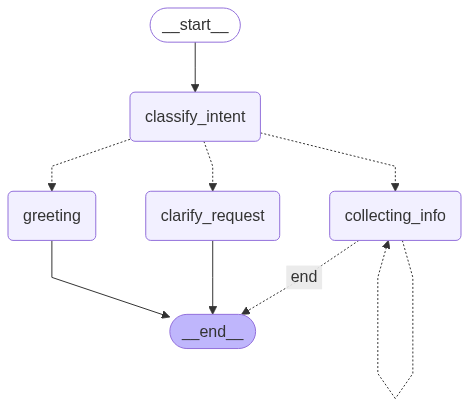
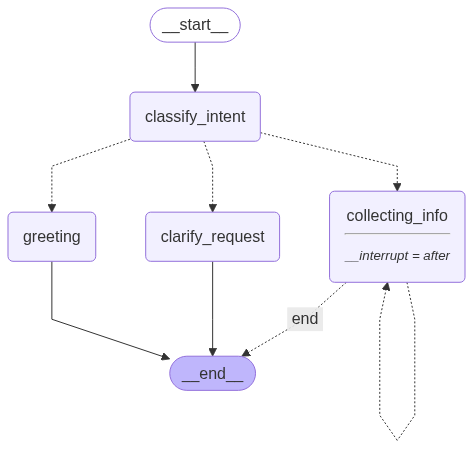
feat: add human-in-loop for clarify

diff --git a/src/meetingmuse/nodes/collecting_info_node.py b/src/meetingmuse/nodes/collecting_info_node.py
@@ -5,6 +5,7 @@ from langchain_core.prompts import ChatPromptTemplate
 from langchain_core.output_parsers import PydanticOutputParser
 
 from meetingmuse.prompts.schedule_meeting_prompt import SCHEDULE_MEETING_PROMPT
+from meetingmuse.prompts.missing_fields_prompt import MISSING_FIELDS_PROMPT
 from meetingmuse.nodes.base_node import BaseNode
 from meetingmuse.models.node import NodeName
 from meetingmuse.models.meeting import MeetingFindings
@@ -22,29 +23,39 @@ class CollectingInfoNode(BaseNode):
         self.prompt = ChatPromptTemplate.from_messages([
             ("system", SCHEDULE_MEETING_PROMPT),
         ])
+        self.missing_fields_prompt = ChatPromptTemplate.from_messages([
+            ("system", MISSING_FIELDS_PROMPT),
+        ])
         self.chain = self.prompt | self.model.chat_model | self.parser
+        self.missing_fields_chain = self.missing_fields_prompt | self.model.chat_model
         self.logger = logger
 
     def is_meeting_details_complete(self, meeting_details: MeetingFindings) -> bool:
-        # check if title and date_time are present (minimum required)
+        # check if all required fields are present (title, date_time, participants, duration)
         return all([
             meeting_details.title is not None,
-            meeting_details.date_time is not None
+            meeting_details.date_time is not None,
+            meeting_details.participants is not None,
+            meeting_details.duration is not None
         ])
 
     def get_next_node_name(self, state: MeetingMuseBotState) -> NodeName:
+        self.logger.info(f"Getting next node name: {state.meeting_details}")
         if state.meeting_details and self.is_meeting_details_complete(state.meeting_details):
             return NodeName.END
         return NodeName.COLLECTING_INFO
     
-    def get_missing_fields(self, meeting_details: MeetingFindings) -> list[str]:
+    def get_missing_required_fields(self, meeting_details: MeetingFindings) -> list[str]:
+        """Get missing required fields (title, date_time, participants, duration)"""
         missing = []
         if not meeting_details.title:
             missing.append("title")
         if not meeting_details.date_time:
-            missing.append("time")
+            missing.append("date_time")
         if not meeting_details.participants:
             missing.append("participants")
+        if not meeting_details.duration:
+            missing.append("duration")
         return missing
 
 
@@ -59,32 +70,55 @@ class CollectingInfoNode(BaseNode):
         if not last_human_message:
             return state
         
-        meeting_details = state.meeting_details
-        current_details = meeting_details.model_dump() if meeting_details else {}
-        missing_fields = self.get_missing_fields(meeting_details)
+        meeting_details = state.meeting_details or MeetingFindings()
+        current_details = meeting_details.model_dump()
+        missing_required = self.get_missing_required_fields(meeting_details)
 
         if self.is_meeting_details_complete(meeting_details):
             response = f"Perfect! I'll schedule your meeting '{meeting_details.title}' " \
-                      f"for {meeting_details.date_time}"
-            if meeting_details.participants:
-                response += f" with {', '.join(meeting_details.participants)}"            
+                      f"for {meeting_details.date_time} with {', '.join(meeting_details.participants)} " \
+                      f"for {meeting_details.duration}"
+            if meeting_details.location:
+                response += f" at {meeting_details.location}"
+            response += "."
             state.messages.append(AIMessage(content=response))
             return state
         
 
-        updated_meeting_details = self.chain.invoke({
-            "user_message": last_human_message.content,
-            "current_details": current_details,
-            "missing_fields": ", ".join(missing_fields) if missing_fields else "none",
-            "format_instructions": self.parser.get_format_instructions()
-        })        
+        try:
+            updated_meeting_details = self.chain.invoke({
+                "user_message": last_human_message.content,
+                "current_details": current_details,
+                "missing_fields": ", ".join(missing_required) if missing_required else "none",
+                "format_instructions": self.parser.get_format_instructions()
+            })
+        except Exception as e:
+            self.logger.error(f"Parsing error: {e}")
+            # Fallback: keep existing details
+            updated_meeting_details = meeting_details      
         
-        # Update the state with the parsed meeting details
-        state.meeting_details = updated_meeting_details
-        self.logger.info(f"Updated meeting details: {updated_meeting_details}")
+        # Update only the missing fields in the state with the new meeting details, do not overwrite existing details
+        for key, value in updated_meeting_details.model_dump().items():
+            if key in missing_required:
+                setattr(state.meeting_details, key, value)
         
-        # Generate a conversational response
-        response = "I've updated your meeting details. Let me know if you need any changes!"
+        self.logger.info(f"Updated meeting details: {state.meeting_details}")
+        
+        # Generate contextual response based on missing required fields
+        updated_missing_required = self.get_missing_required_fields(state.meeting_details)
+        
+        if updated_missing_required:
+            try:
+                response = self.missing_fields_chain.invoke({
+                    "current_details": state.meeting_details.model_dump(),
+                    "missing_required": updated_missing_required
+                }).content
+            except Exception as e:
+                self.logger.error(f"Missing fields prompt error: {e}")
+                response = "I need some more information to schedule your meeting. Could you provide the missing details?"
+        else:
+            response = "Great! I have all the information I need."
+        
         state.messages.append(AIMessage(content=response))
         return state
     

diff --git a/tests/scripts/run_chatbot.py b/tests/scripts/run_chatbot.py
@@ -1,0 +1,72 @@
+from langgraph.graph import StateGraph
+from langchain_core.messages import HumanMessage
+from meetingmuse.nodes import clarify_request_node, collecting_info_node, classify_intent_node, greeting_node
+from meetingmuse.models.state import MeetingMuseBotState
+from meetingmuse.graph import GraphBuilder
+from meetingmuse.services.routing_service import ConversationRouter
+from meetingmuse.utils.logger import Logger
+from meetingmuse.llm_models.hugging_face import HuggingFaceModel
+from meetingmuse.services.intent_classifier import IntentClassifier
+from meetingmuse.nodes.classify_intent_node import ClassifyIntentNode
+from meetingmuse.nodes.greeting_node import GreetingNode
+from meetingmuse.nodes.collecting_info_node import CollectingInfoNode
+from meetingmuse.nodes.clarify_request_node import ClarifyRequestNode
+
+logger = Logger()
+conversation_router = ConversationRouter(logger)
+model = HuggingFaceModel("meta-llama/Meta-Llama-3-8B-Instruct")
+intent_classifier = IntentClassifier(model)
+classify_intent_node = ClassifyIntentNode(intent_classifier)
+greeting_node = GreetingNode(model)
+collecting_info_node = CollectingInfoNode(model, logger)
+clarify_request_node = ClarifyRequestNode(model)
+
+class ChatBot:
+    def __init__(self, graph):
+        self.graph = graph
+        self.thread_id = "conversation_1"
+        self.config = {"configurable": {"thread_id": self.thread_id}}
+    
+    def process_input(self, user_input: str):
+        # Always add the user message and process
+        input_data = {"messages": [HumanMessage(content=user_input)]}
+        
+        for events in self.graph.stream(
+            input_data, 
+            config=self.config,
+            stream_mode="values"
+        ):
+            messages = events["messages"]
+            message = messages[-1]
+            if message and message.type == "ai" and message.content:
+                print("Assistant:", message.content)
+        
+        # Check if we're interrupted and waiting for more input
+        current_state = self.graph.get_state(self.config)
+        if current_state and current_state.next:
+            print(f"[System: Waiting for your input, will resume at {current_state.next}]")
+
+
+
+if __name__ == "__main__":
+    graph_builder = GraphBuilder(
+        state=MeetingMuseBotState,
+        greeting_node=greeting_node,
+        clarify_request_node=clarify_request_node,
+        collecting_info_node=collecting_info_node,
+        conversation_router=conversation_router,
+        classify_intent_node=classify_intent_node,
+    )
+    graph = graph_builder.build()
+    chatbot = ChatBot(graph)
+    
+    while True:
+        try:
+            user_input = input("User: ")
+            if user_input.lower() in ["quit", "exit", "q"]:
+                print("Goodbye!")
+                break
+            chatbot.process_input(user_input)
+        except Exception as e:
+            print(e)
+            break

diff --git a/src/meetingmuse/prompts/missing_fields_prompt.py b/src/meetingmuse/prompts/missing_fields_prompt.py
@@ -1,0 +1,50 @@
+MISSING_FIELDS_PROMPT = """
+You are CalendarBot, helping to schedule a meeting. Generate a friendly, natural response asking the user for missing meeting information.
+
+CURRENT MEETING DETAILS: {current_details}
+MISSING REQUIRED FIELDS: {missing_required}
+
+Your task:
+1. Generate a conversational response that acknowledges what information you have
+2. Ask for the missing required fields in a natural way
+3. Keep the tone helpful and conversational
+
+REQUIRED FIELDS (must ask for these):
+- title: Meeting purpose/subject
+- date_time: Date and time for the meeting
+- participants: Who should attend the meeting
+- duration: How long the meeting should be
+
+GUIDELINES:
+- Be conversational and friendly
+- Acknowledge any details already provided
+- Focus only on required fields (title, date_time, participants, duration) 
+- Don't overwhelm with too many questions at once
+- Use natural language, not technical field names
+- Keep response concise but helpful
+
+EXAMPLES:
+
+Input: current_details={{"title": "team standup"}}, missing_required=["date_time", "participants", "duration"]
+Output: Great! I've got that you want to schedule a team standup. When would you like to have it, who should attend, and how long should it be?
+
+Input: current_details={{}}, missing_required=["title", "date_time", "participants", "duration"]
+Output: I'd be happy to help you schedule a meeting! What would you like the meeting to be about, when would you like to have it, who should attend, and how long should it be?
+
+Input: current_details={{"title": "client review", "date_time": "Friday at 3pm"}}, missing_required=["participants", "duration"]
+Output: Perfect! I've got your client review meeting scheduled for Friday at 3pm. Who should attend and how long should it be?
+
+Input: current_details={{"title": "marketing sync", "participants": ["John", "Sarah"], "duration": "30 minutes"}}, missing_required=["date_time"]
+Output: Got it! You want to schedule a 30-minute marketing sync with John and Sarah. When would work best for everyone?
+
+Input: current_details={{"date_time": "tomorrow at 2pm", "duration": "1 hour"}}, missing_required=["title", "participants"]
+Output: I see you want to meet tomorrow at 2pm for 1 hour. What's the meeting about and who should attend?
+
+Input: current_details={{"title": "project review", "date_time": "Monday at 10am", "participants": ["team leads"], "duration": "45 minutes"}}, missing_required=[]
+Output: Perfect! I have all the details for your 45-minute project review with the team leads on Monday at 10am.
+
+IMPORTANT: 
+- Return ONLY the conversational response, no explanations or formatting
+- Don't use technical terms like "title" or "date_time" - use natural language
+- If no required fields are missing, acknowledge that you have everything needed
+"""

diff --git a/src/meetingmuse/prompts/schedule_meeting_prompt.py b/src/meetingmuse/prompts/schedule_meeting_prompt.py
@@ -22,13 +22,15 @@ REQUIRED FIELDS:
 INSTRUCTIONS:
 - Extract meeting information from the user's message
 - Merge with current details, keeping existing values unless user provides updates
-- Set fields to null if not mentioned or unknown
+- Set fields to null (NOT None) if not mentioned or unknown
+- CRITICAL: Use "null" not "None" - this is JSON, not Python
 - IMPORTANT: Return ONLY valid JSON, no code blocks, no explanations, no markdown formatting
 - Do not wrap the JSON in ```json``` or any other formatting
 
 {format_instructions}
 
 CRITICAL: Your response must be ONLY the JSON object, nothing else.
+Remember: Use "null" not "None" - JSON format required!
 
 Examples of expected JSON output:
 

diff --git a/src/meetingmuse/graph.py b/src/meetingmuse/graph.py
@@ -3,6 +3,7 @@ MeetingMuse LangGraph Workflow
 """
 
 from langgraph.graph import StateGraph, START, END
+from langgraph.checkpoint.memory import MemorySaver
 
 from meetingmuse.models.node import NodeName
 from meetingmuse.models.state import MeetingMuseBotState
@@ -59,7 +60,10 @@ class GraphBuilder:
         graph_builder.add_edge(self.greeting_node.node_name, END)
         graph_builder.add_edge(self.clarify_request_node.node_name, END)
         
-        return graph_builder.compile()
+        return graph_builder.compile(
+            interrupt_after=[NodeName.COLLECTING_INFO],
+            checkpointer=MemorySaver()
+        )
     
     def draw_graph(self) -> None:
         try:

diff --git a/README.md b/README.md
@@ -113,22 +113,7 @@ MeetingMuse is built using:
 - **Intent Classification**: AI-powered user intent recognition
 - **Conversation Routing**: Smart conversation flow management
 - **Node-based Architecture**: Modular conversation handling
-- **Dependency Injection**: Clean, testable architecture
 
-## Project Structure
-
-```
-meetingmuse/
-├── src/meetingmuse/
-│   ├── config/          # Configuration management
-│   ├── models/          # State and data models
-│   ├── nodes/           # LangGraph conversation nodes
-│   ├── services/        # Business logic services
-│   ├── utils/           # Utility functions (logging, etc.)
-│   └── prompts/         # LLM prompts
-├── tests/               # Test suite
-└── docs/                # Documentation
-```
 
 ## Testing
 
@@ -147,7 +132,7 @@ poetry run pytest -m integration
 ### Testing Nodes in isolation
 
 Each node can be tested in isolation.
-sample script can be found in `tests/run_node_with_graph.py`
+sample script can be found in `tests/scripts/run_node_with_graph.py`
 
 ```python
     # this method draws the graph - if you want to visualize the graph,
@@ -157,9 +142,12 @@ sample script can be found in `tests/run_node_with_graph.py`
     test_single_node(NodeName.COLLECTING_INFO, "I want to schedule a meeting with John Doe on 2025-08-01 at 10:00 AM for 1 hour")
 ```
 
+to test the chatbot in full, use the run_node_
+run using `poetry run python tests/scripts/run_chatbot.py`
+
 use 
 ```bash
-    poetry run python tests/run_node_with_graph.py
+    poetry run python tests/scripts/run_node_with_graph.py
 ```
 
 ## Contributing
